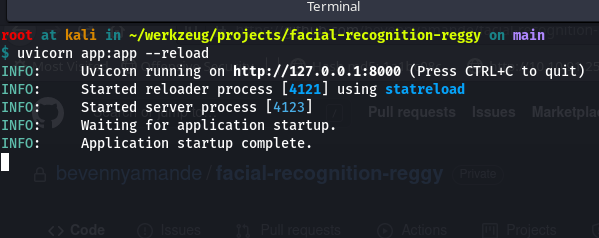
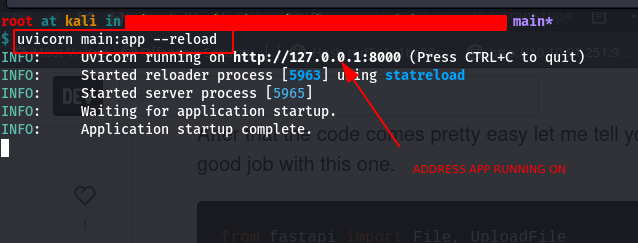
adding notes and directory structure

Changed region(s): [[0.0, 0.0, 1.0, 0.7353], [0.6311, 0.6765, 0.9015, 0.7353], [0.601, 0.5, 0.6311, 0.6176]]

diff --git a/README.md b/README.md
@@ -1,6 +1,12 @@
 ## Facial Recognition Application / Script
 - Based on the python facial recognition library, Fastapi for python API design
 
+### Tech Stack
+
+- FastAPI (API framework)
+- Uvicorn (server)
+- Python-multipart (Form data)
+
 ## Installation
 - clone the repo or move the train.py, app.py and requirements.txt file to your project file directory
 - To install the dependencies
@@ -8,6 +14,7 @@
 ```python
 pip install -r requirements.txt
 ```
+
 ## Starting the local webserver or API
 
 <img src='images/server_running.png' />
@@ -22,7 +29,9 @@ pip install -r requirements.txt
 ## Starting the local server in development
 
 ```bash
-uvicorn app:app --reload
+uvicorn main:app --reload
 ```
+
 ## Directory Structure
+
 <img src='images/directory structure.png' />
